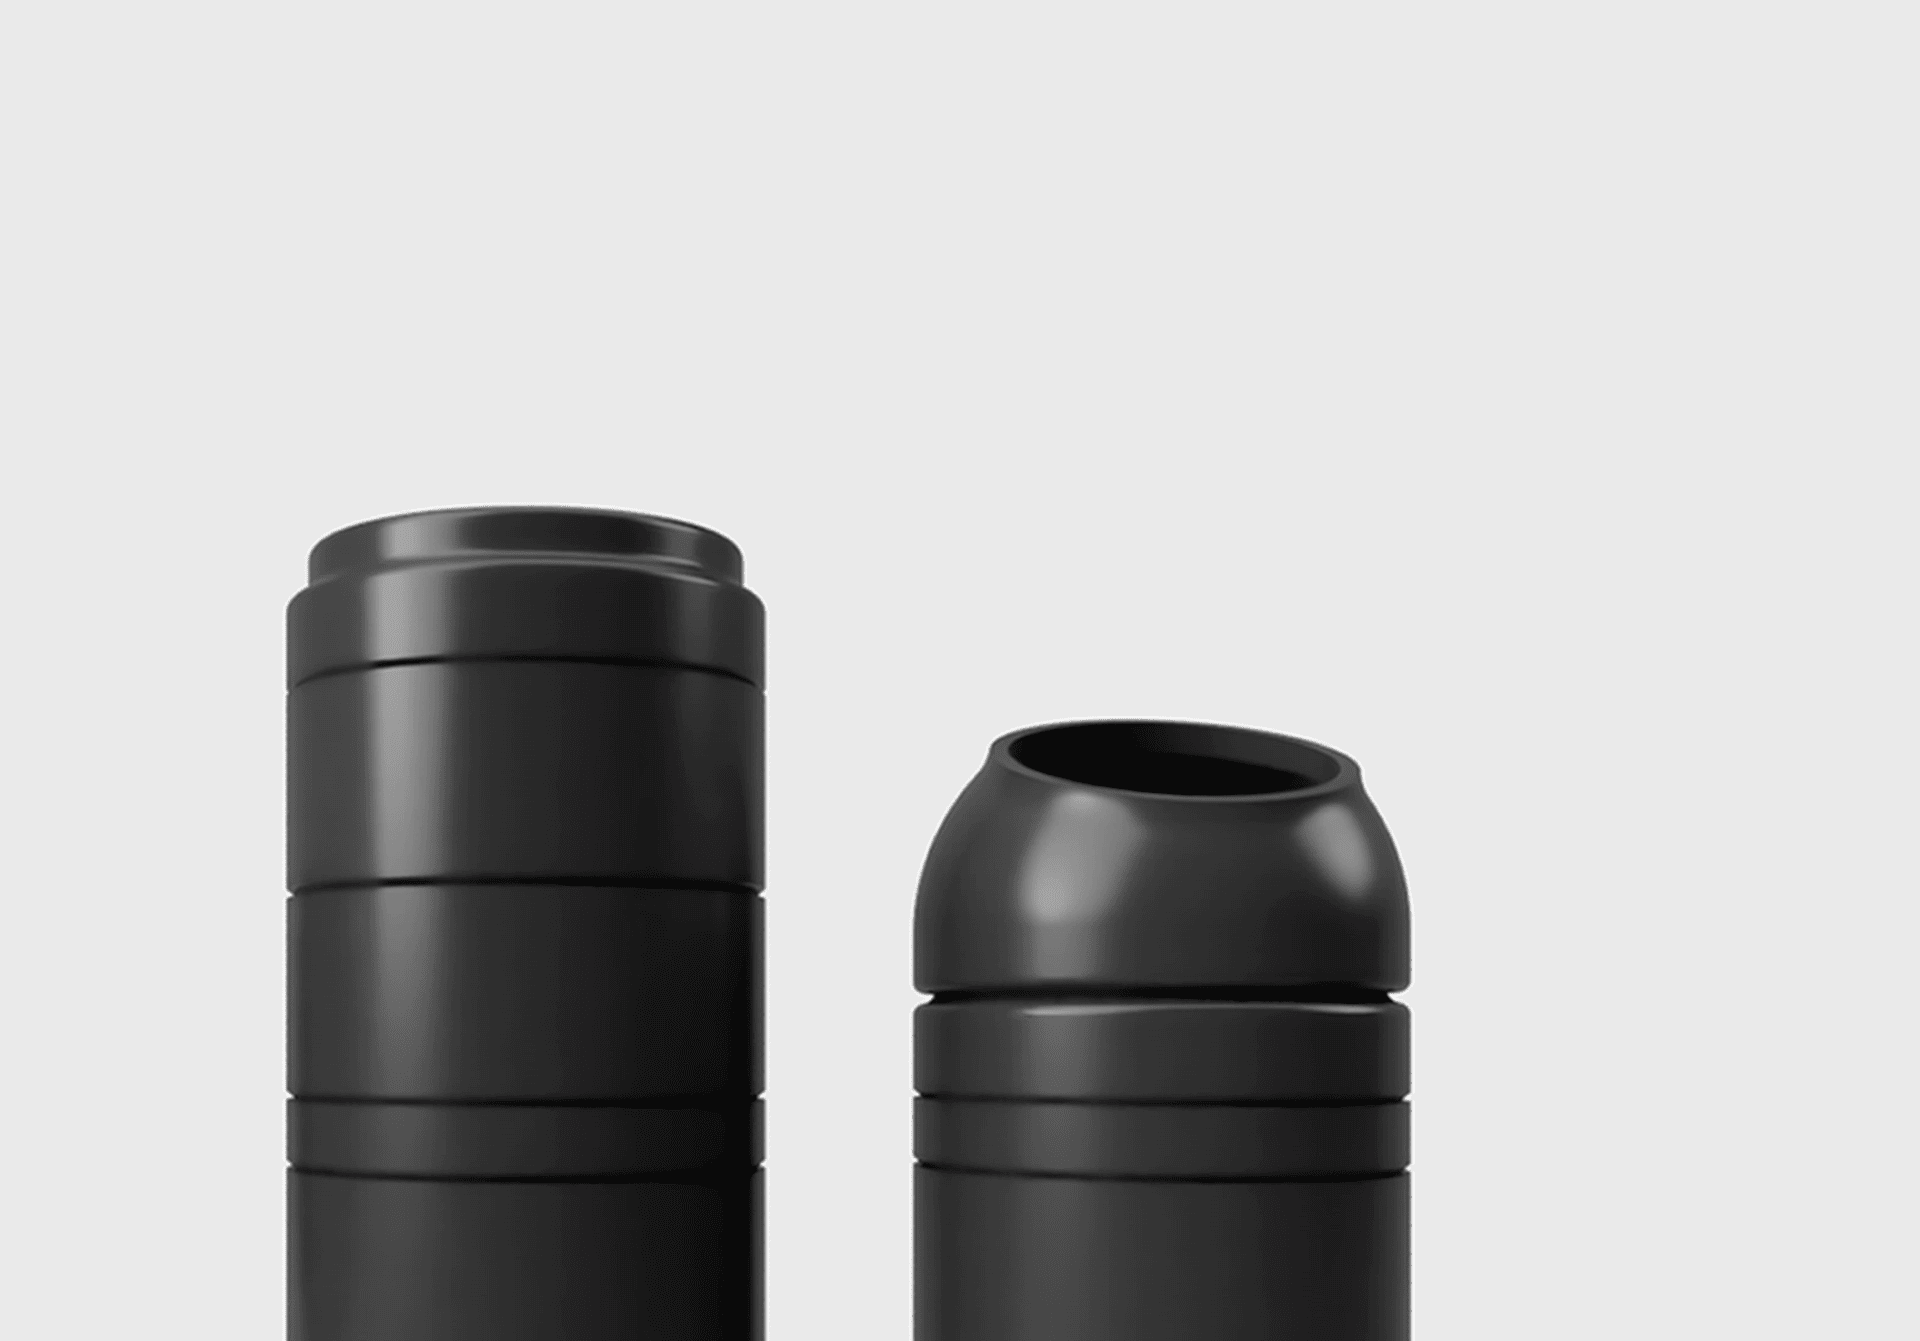
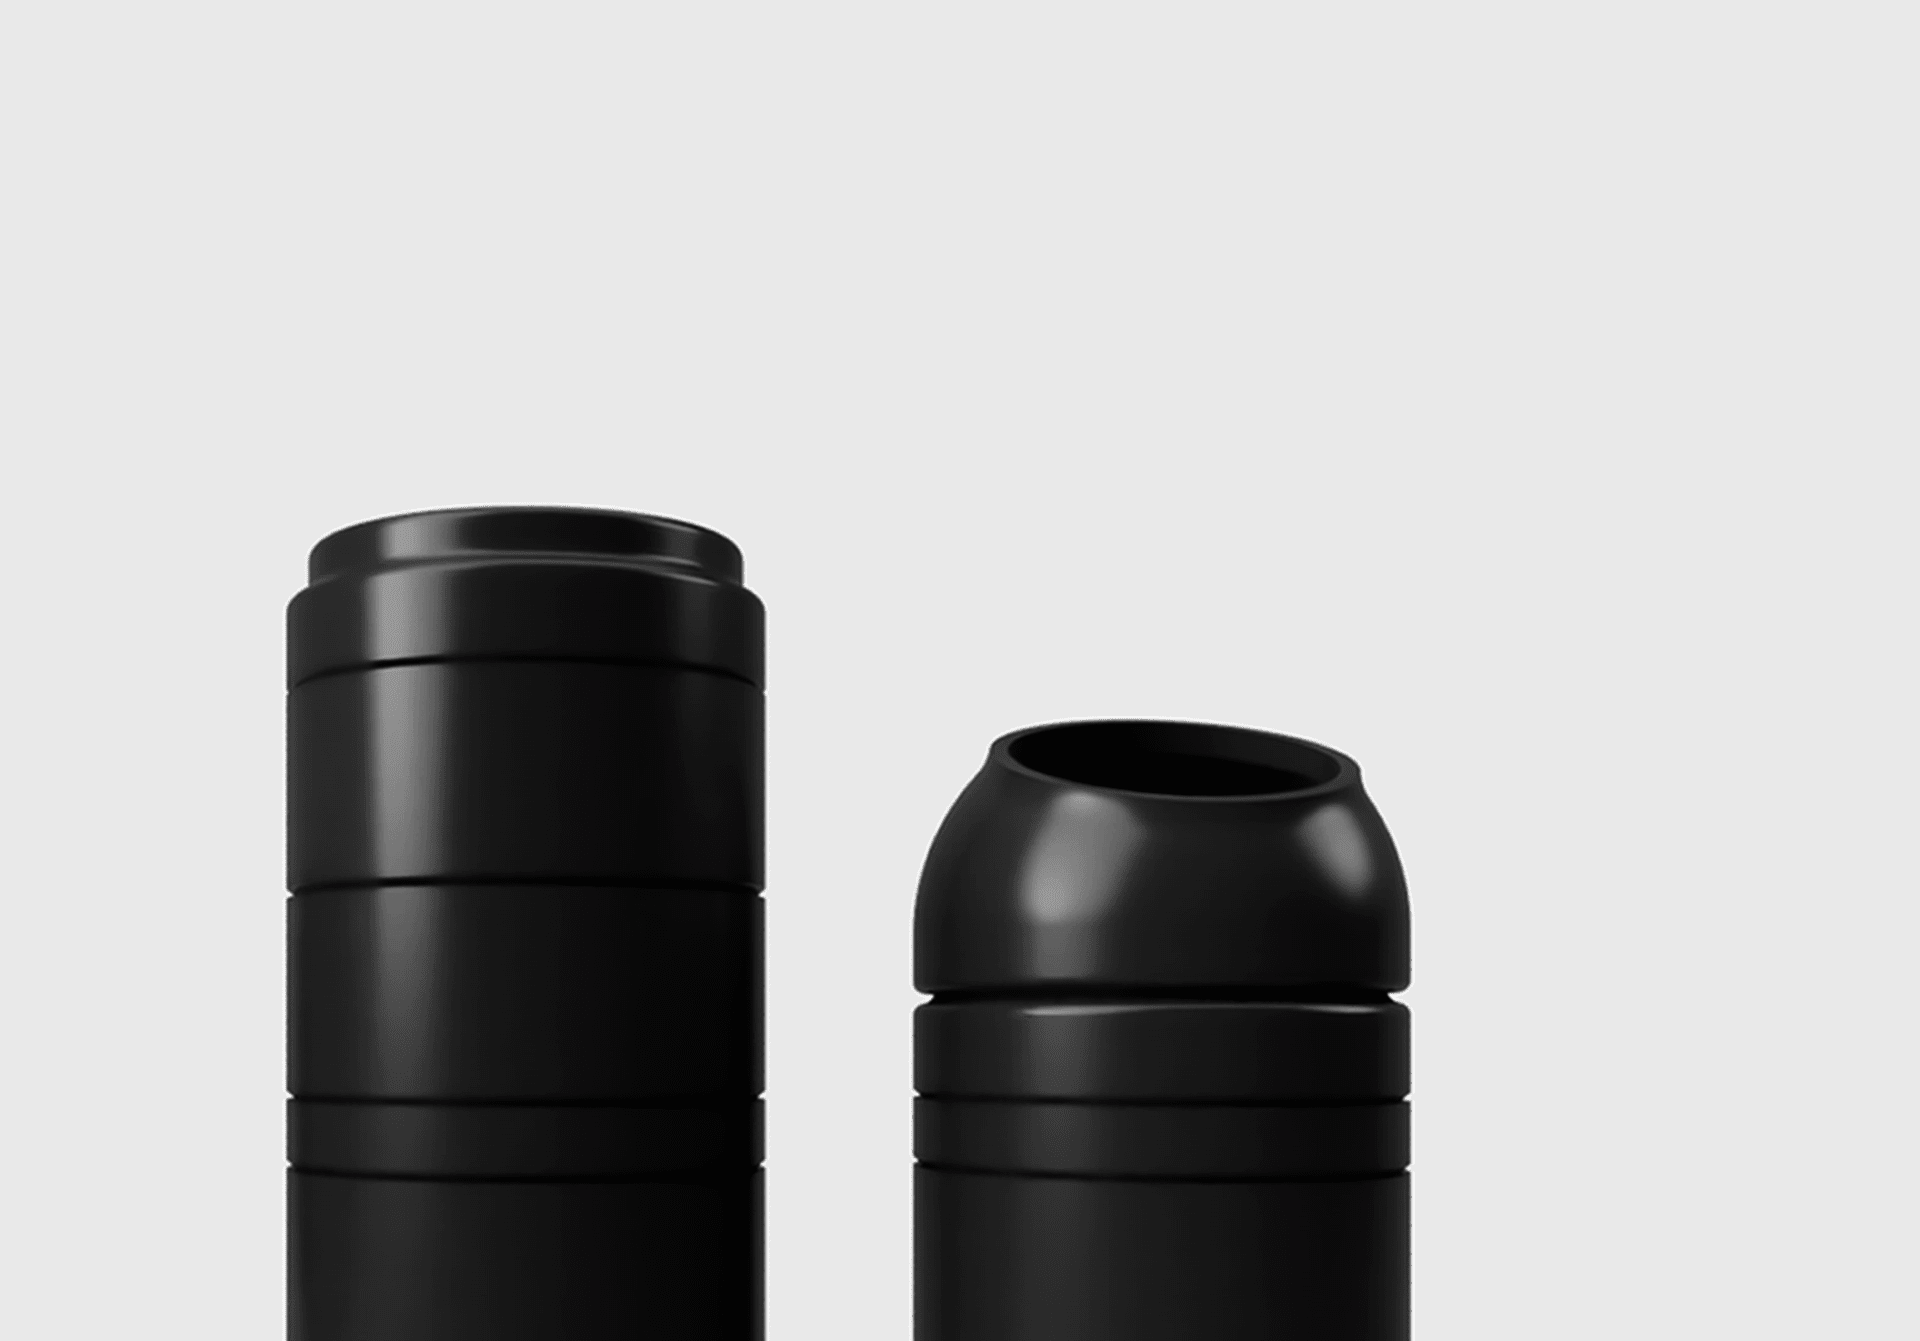
Files

Changed region(s): [[0.125, 0.3669, 0.4062, 1.0], [0.4688, 0.5503, 0.75, 1.0]]

diff --git a/index.html b/index.html
@@ -84,7 +84,7 @@
     <!-- Project start -->
     <img src="./assets/img/portfolio/farm4.jpg" alt="Slide alt text" />
     <h2>Breathing Leaves Farm</h2>   
-    <p>Native fruit, wild vegetables and uncommon crops from the other side of the planet. Grown in a regenerative food forest and delivered directly to community residents. </p>
+    <p>Rare fruit, wild vegetables and uncommon crops from the other side of the planet. Grown in a regenerative food forest and delivered directly to community residents. </p>
     <p><a href="https://drive.proton.me/urls/GVMMVGFC10#AXyNe8pJ5IUK" target="_blank" class="cta-project" title="Catalogue">Seasonal Produce <span class="arrow">→</span></a></p>
     <hr />
 
